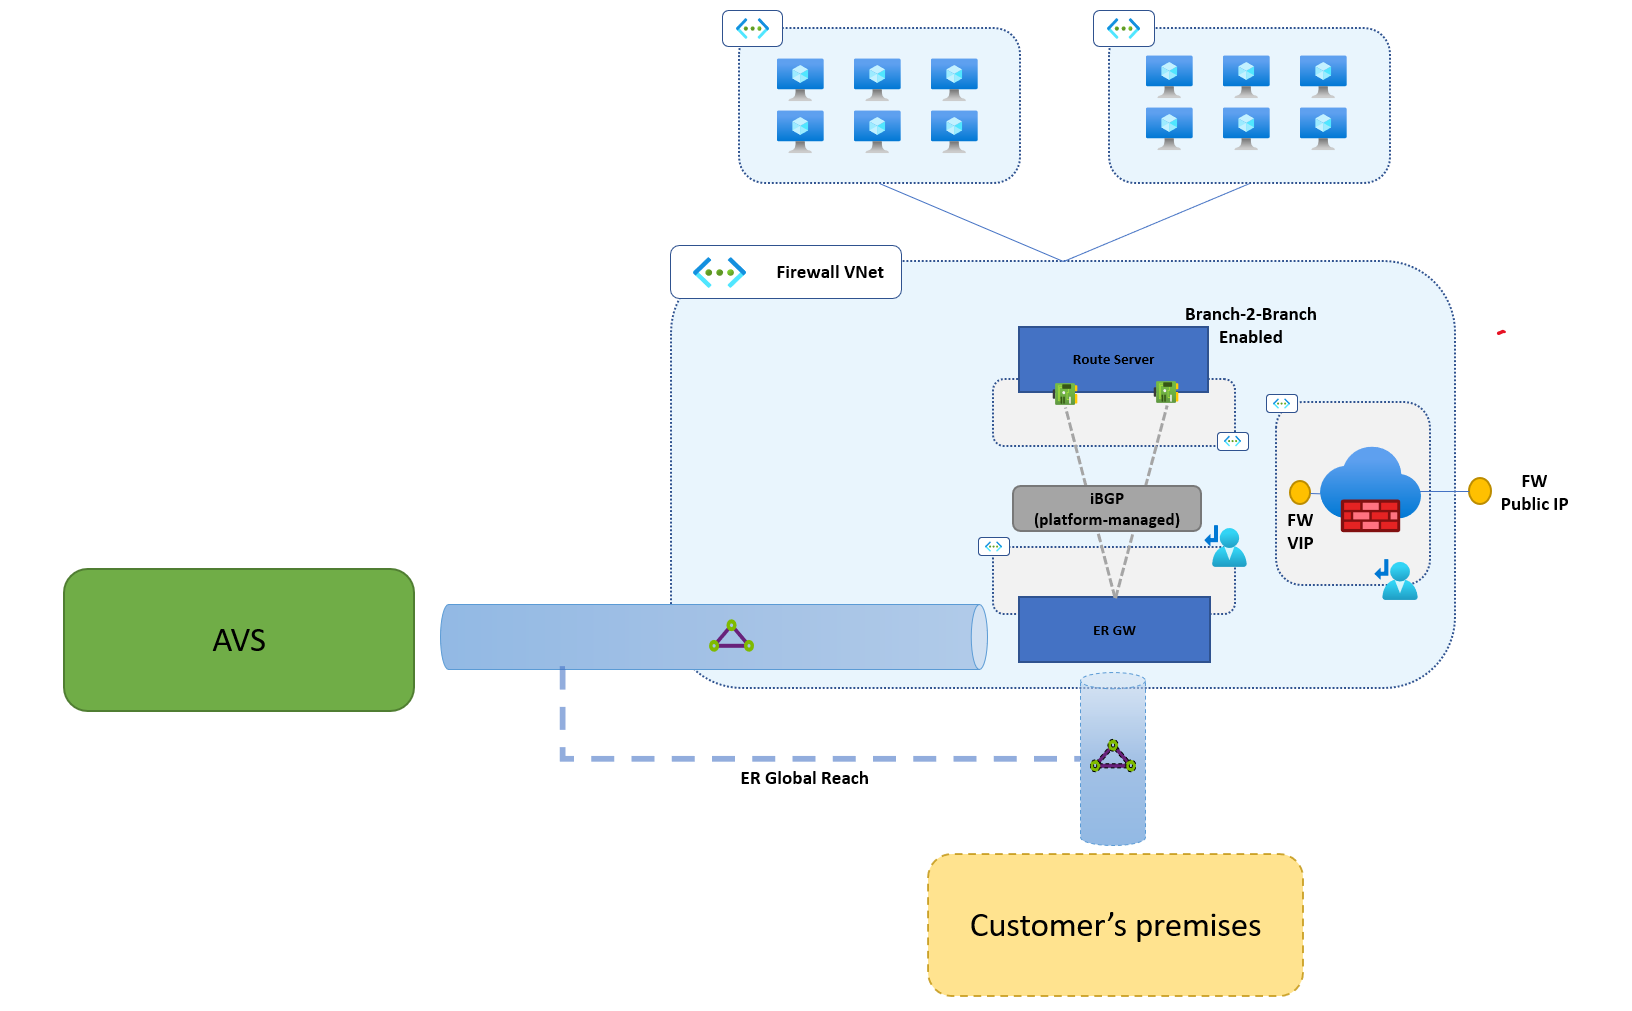
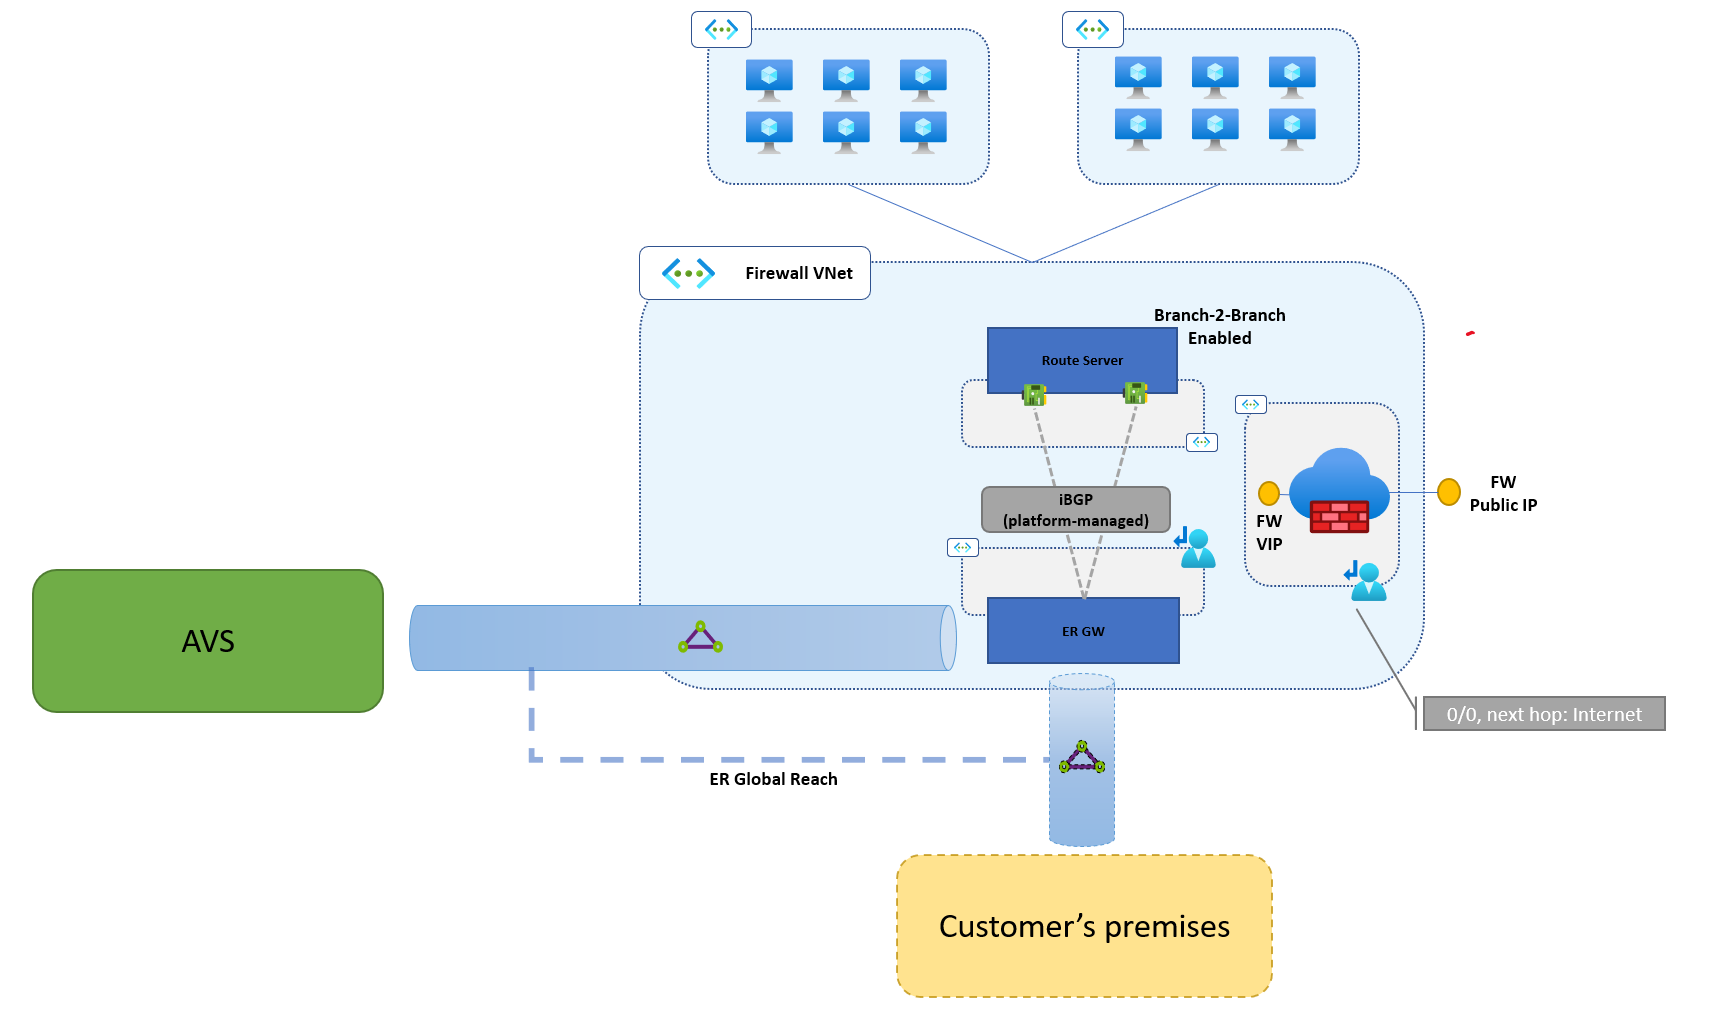
Enhanced pictures and guidance for outbound internet connectivity step-by-step (#176)
* Removed stale "work in progress" entry from step-by-step guides table

* Added figure5

* Fixed typo

* Revised/enhanced instructions

* Enhanced figure 5

* Enhanced figure 3

diff --git a/BrownField/Networking/Step-By-Step-Guides/Implementing internet connectivity for AVS with Azure NVAs/readme.md b/BrownField/Networking/Step-By-Step-Guides/Implementing internet connectivity for AVS with Azure NVAs/readme.md
@@ -1,9 +1,7 @@
 # Implementing internet connectivity for AVS with Azure NVAs
-This article walks through the implementation of internet connectivity for AVS using NVAs (Network Virtual Appliances) running in an Azure Virtual Network. This approach is recommended for customers that have an existing internet edge in Azure and want to leverage it for their AVS workloads, both to optimize costs and to enforce consistent network policies.
+This article walks through the implementation of outbound internet connectivity for AVS VMs using Azure-native NVAs (such as Azure Firewall or 3rd party firewalling solutions) in a Virtual Network (VNet). This approach is recommended for AVS customers that have an existing internet edge in Azure and want to leverage it for their AVS workloads, both to optimize costs and to enforce consistent network policies across Azure-native and AVS VMs.
 
-Inbound internet access, i.e. the ability to expose applications running in AVS behind Public IPs associated with Azure NVAs, only requires connecting the AVS private cloud to the Azure VNet, using the private cloud's managed Expressroute circuit. No other configuration is required in Azure or AVS. The NVAs that expose the Public IPs must be configured to NAT (Destination-NAT + Source-NAT) inbound connections. While very basic and mostly dependent on the specific NVAs being used, this article provides guidance for configuring inbound internet access.
-
-Outbound internet access requires announcing a default (0.0.0.0/0) route from Azure to AVS over the managed Expressroute circuit, in order for the private cloud T0 gateways to send internet-bound traffic to the Azure VNet. If the internet edge NVAs in Azure support BGP, then they can be used as BGP speakers to originate the default route. If the NVAs do not support BGP (or cannot be used as BGP speakers due to security-related constraints), additional NVAs can be deployed to act as BGP speakers. A typical scenario that requires additional BGP-capable NVAs is when the Azure internet edge is Azure Firewall. This article provides configuration guidance for the latter case. 
+Internet-bound traffic emitted by AVS VMs can be routed to an Azure-native NVA by announcing a default route (0.0.0.0/0) over the AVS-managed Expressroute circuit that connects the private cloud to the NVA's VNet. The AVS private cloud's T0 gateways will honor the default route received from Azure and will send internet-bound traffic to the default route's next hop. If the internet edge NVAs in Azure support BGP, then they can be used as BGP speakers to originate the default route. If the NVAs do not support BGP (or cannot be used as BGP speakers due to security-related constraints), additional NVAs can be deployed to act as BGP speakers. A typical scenario that requires additional BGP-capable NVAs is when the Azure internet edge is Azure Firewall (Azure Firewall does not support BGP). This article provides configuration guidance for the latter case. 
 
 ## Prerequisites
 This step-by-step guide assumes that the following resources have been already deployed and configured:
@@ -11,7 +9,7 @@ This step-by-step guide assumes that the following resources have been already d
 - An AVS private cloud.
 - An Azure VNet hosting an Expressroute gateway and the internet edge (Azure Firewall or third-party NVAs). The VNet is typically the hub VNet of an hub&spoke network deployed in a single Azure region. However, a fully-fledged hub and spoke topology is not required to successfully implement the solution described in this article. Hence, this VNet will be referred to as the "Firewall VNet" in the sections below.
 
- The network architecture for internet access described in this guide is compatible and can work side-by-side with a connection to a customer-managed Expressroute circuit that provides access to remote, on-prem locations. If such a circuit is available, it can also be connected to the AVS private cloud's managed circuit using Global Reach. This configuration allows routing traffic directly between AVS and the on-prem locations, bypassing the firewall running in Azure. A customer-managed Expressroute circuit that provides connectivity to on-prem locations is not a prerequisite for completing this step-by step guide.  
+ The network design covered in this guide is compatible and can work side-by-side with a connection to a customer-managed Expressroute circuit that provides access to remote, on-prem locations. If such a circuit is available, it can also be connected to the AVS private cloud's managed circuit using Global Reach. This configuration allows routing traffic between the AVS private cloud and the remote on-prem sites directly, bypassing the firewall running in Azure. A customer-managed Expressroute circuit that provides connectivity to on-prem locations is not a prerequisite for completing this step-by step guide.  
 
 The picture below shows how your environment should look like before you execute the steps described in this article.
 
@@ -28,7 +26,7 @@ At the end of this step-by-step guide, your environemnt will look like the one i
 
 ![figure2](./media/figure2.PNG)
 
-Connectivity among the AVS private cloud, the Firewall VNet and the spoke VNet(s), if any, is entirely based on Expressroute and VNet peering, both of which  work cross-subscription and cross-tenant. Therefore, the resources listed above can be deployed across multiple subscriptions, if so mandated by security/billing/governance requirements. Also, it is not required for Firewall VNet and the AVS private cloud to be in same Azure region. However, the latency implications of deploying across multiple regions must be carefully evaluated. Latency increases with the geographical distance travelled by traffic exchanged between the AVS private cloud and the firewall VNet. Cost is affected by the VNet peering type (intra-region vs. global) and by the SKU of the Expressroute circuit that connects the on-prem site(s).  
+Connectivity among the AVS private cloud, the Firewall VNet and the spoke VNet(s), if any, is entirely based on Expressroute and VNet peering, both of which  work cross-subscription and cross-tenant. Therefore, the resources listed above can be deployed across multiple subscriptions, if so mandated by security/billing/governance requirements. Also, it is not required for the Firewall VNet and the AVS private cloud to be in same Azure region. However, the latency implications of deploying across multiple regions must be carefully evaluated. Latency increases with the geographical distance travelled by traffic exchanged between the AVS private cloud and the firewall VNet. Cost is affected by the VNet peering type (intra-region vs. global) and by the SKU of the Expressroute circuit that connects the on-prem site(s).  
 
 The following address prefixes must be allocated for the Firewall VNet:
  - a /27 (or larger) prefix for the RouteServerSubnet (the subnet that hosts Azure Route Server)
@@ -36,10 +34,10 @@ The following address prefixes must be allocated for the Firewall VNet:
 
 The table below summarizes the address allocation requirements. All the prefixes listed in the table *must not* overlap with any other prefixes used in the AVS private cloud, in the Firewall VNet (and its directly connected spokes, if any) or in the remote site(s) connected over Expressroute.
 
-| Virtual Network | Subnet              | Netmask | Notes                                                    |
-| --------------- | ------------------- | ------- | -------------------------------------------------------- |
-| Firewall VNet   | Route Server Subnet | /27     | The subnet must be named "RouteServerSubnet"             |
-| Firewall VNet   | BGP NVA subnet      | /28     | Only needed if the firewalling solution does not run BGP |
+| Virtual Network | Subnet              | Netmask | Notes                                                       |
+| --------------- | ------------------- | ------- | ------------------------------------------------------------|
+| Firewall VNet   | Route Server Subnet | /27     | The subnet must be named "RouteServerSubnet"                |
+| Firewall VNet   | BGP NVA subnet      | /28     | Subnet for the BGP-capable NVAs that announce the 0/0 route |
 
 ## Logging into Azure subscriptions
 As mentioned in the previous section, it is possible to deploy the required resources across multiple subscriptions and/or multiple regions. As the allocation of resources to subscriptions may vary greatly across real-world environments, this article does not provide prescriptive guidance as to where to deploy each resource. It is the reader's responsibility to properly set the Azure context for executing the code snippets provided below. Please review the official documentation for instructions on how to log into Azure and select a subscription to work in (with [Azure PowerShell](https://docs.microsoft.com/en-us/powershell/azure/authenticate-azureps?view=azps-7.4.0) or [Azure CLI](https://docs.microsoft.com/en-us/cli/azure/manage-azure-subscriptions-azure-cli)). 
@@ -187,7 +185,7 @@ routeServerIps=($(az network routeserver show \
         --query virtualRouterIps --output tsv))
 ```
 
-If in your environment there is no custom route table associated with the "AzureFirewall" subnet, create one. The custom route table must contain a default route (0.0.0.0/0) with next hop type set to "Internet"
+If in your environment there is no custom route table associated with the "AzureFirewall" subnet, create one and add a user-defined default route (0.0.0.0/0) with next hop type set to "Internet". This UDR is required to eliminate a routing loop for traffic emitted by the firewall and destined to the public internet that would be introduced by the default route announced by the BGP-capable NVA that you will configure in the next steps.
 
 ```
 # Deploy Custom Route Table for the Azure Firewall Subnet
@@ -212,7 +210,20 @@ az network vnet subnet update \
 
 ```
 
-If a custom route table is already associated to the AzureFirewallSubnet in your environment, then make sure that it contains a default route (0.0.0.0/0) with next hop type set to "Internet".
+If a custom route table is already associated to the AzureFirewallSubnet in your environment, then make sure that it contains a default route (0.0.0.0/0) with next hop type set to "Internet". If not, add it:
+
+```Azure CLI
+# Add default route with next hop "Internet" to override default route announced by BGP-capable NVAs
+rgName="<Name of your existing custom route table's resource group>"
+rtName="<Name of your existing custom route table>"
+
+az network route-table route create \
+        --name defaultToInternet \
+        --resource-group $rgName \
+        --route-table-name $rtName \
+        --address-prefix 0.0.0.0/0 \
+        --next-hop-type Internet
+```
 
 At the end of this step, your environment will look as shown in the figure below.
 
@@ -300,7 +311,7 @@ Irrespective of what BGP-capable NVAs (Linux VMs vs. commercial routing products
 
 - Azure Route Servers always use the reserved ASN 65515. The BGP capable NVAs must use a different ASN (not included in the Azure-reserved range 65515-65520). As such, all sessions between NVAs and Route servers are external BGP (eBGP) sessions.
 - Azure Route Servers are attached to dedicated subnets in their respective VNets. As such, BGP sessions with the BGP capable NVAs are established between interfaces that do not share a common subnet. Therefore, eBGP multihop must be supported and enabled on the NVAs.
-- Static routes must be defined in the NVAs' guest OS route tables to ensure reachability of the Route Servers (which are non-directly-connected external BGP peers). It is recommended to define static routes for the entire prefix of the RouteServerSubnets.
+- Static routes must be defined in the NVAs' guest OS route tables to ensure reachability of the Route Servers (which are non-directly-connected external BGP peers). It is recommended to define static routes for the entire prefix of the RouteServerSubnet.
 
 ### Linux NVA with FRRouting configuration
 This section shows how to implement the general routing guidelines when using CentOS Linux boxes with [FRRouting](https://frrouting.org/).
@@ -356,6 +367,10 @@ Note: To avoid typos and ensure consistent replacements across the entire script
 ```
 conf term
 !
+route-map SET-NEXT-HOP-FW permit 10
+set ip next-hop <Firewall VIP>
+exit
+!
 router bgp <BGP-capable NVA's ASN>
 no bgp ebgp-requires-policy
 neighbor <IP address of Route Server instance #0> remote-as 65515  
@@ -369,9 +384,6 @@ address-family ipv4 unicast
   neighbor <IP address of Route Server instance #1> route-map SET-NEXT-HOP-FW out
 exit-address-family
 !
-route-map SET-NEXT-HOP-FW permit 10
-set ip next-hop <Firewall VIP>
-!
 exit
 !
 exit
@@ -380,7 +392,7 @@ write file
 !
 ```
 
-After updating the commands with the addresses and ASN's that fit your environment, lon into FRR's CLI y running
+After updating the commands with the addresses and ASN's that fit your environment, log into FRR's CLI by running
 
 ```Bash
 sudo vtysh
@@ -388,9 +400,15 @@ sudo vtysh
 
 You can now paste all the commands in the vtysh shell to apply the configuration and save it to configuration files. This will make your configuration persistent across VM reboots.
 
+At the end of this step, your environment will look as shown in the figure below.
+
+![figure5](./media/figure5.PNG) 
+
 ## Step #4 - Configure Azure Firewall to allow internet access from AVS segments
 
-In the Azure portal, create Azure Firewall rules to allow access to the internet (0.0.0.0/0) from the AVS segments that exist in your private cloud.
+Configure the pre-existing firewall )Azure Firewall or third party NVAs) rules to allow access to the internet (0.0.0.0/0) from the AVS segments that exist in your private cloud.
+
+Note: When announcing a default route from Azure, DNS queries against public DNS servers will be routed accordingly. Make sure to configure Azure Firewall rules to allow outbound connections on ports TCP/53 and UDP/53. Depending on your AVS segments' DNS/DHCP configuration, those connections may originate from the VMs' IP addresses or from the service IP of DNS services defined in NSX-T. 
 
 ## Verification
 
@@ -412,9 +430,10 @@ and confirm that the default route is advertised to Azure Route Server with the 
 show ip bgp neighbor <IP address of Route Server instance #1> advertised-routes
 ```
 
-Log onto one of your AVS VMs, attached to a segment for which Azure Firewall allows outbound internet access, and confirm that you can reach internet destinations. Confirm that the outbound connections initiated from the AVS VMs get Source-NATted behind your Azure Firewall's public IP address, by running
+Log onto one of your AVS VMs, attached to a segment for which the firewall allows outbound internet access, and confirm that you can reach internet destinations. Confirm that the outbound connections initiated from the AVS VMs get Source-NATted behind your firewall's public IP address, by running
 
 ```vtysh
 curl ipinfo.io
 ```
+The public IP address returned by ipinfo.io should match the public IP address associated with your firewalling solution.
 
